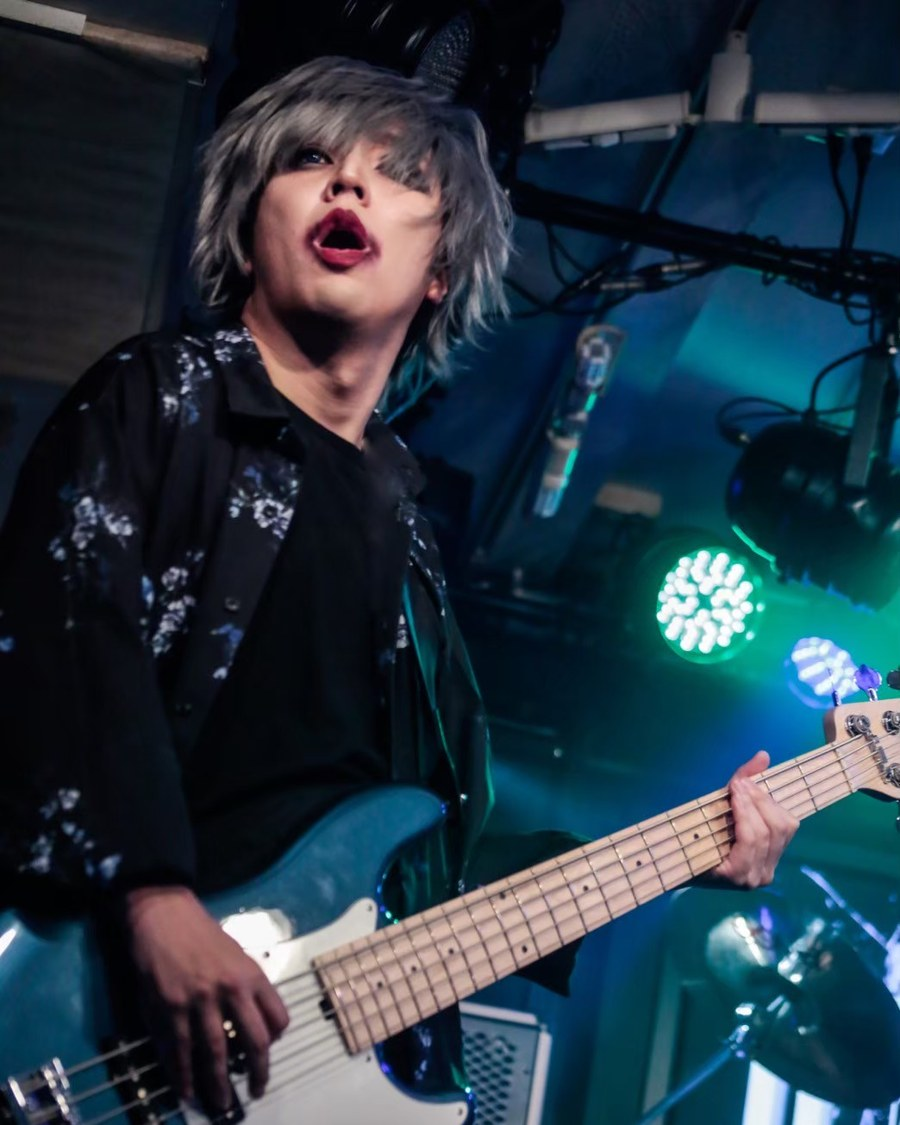
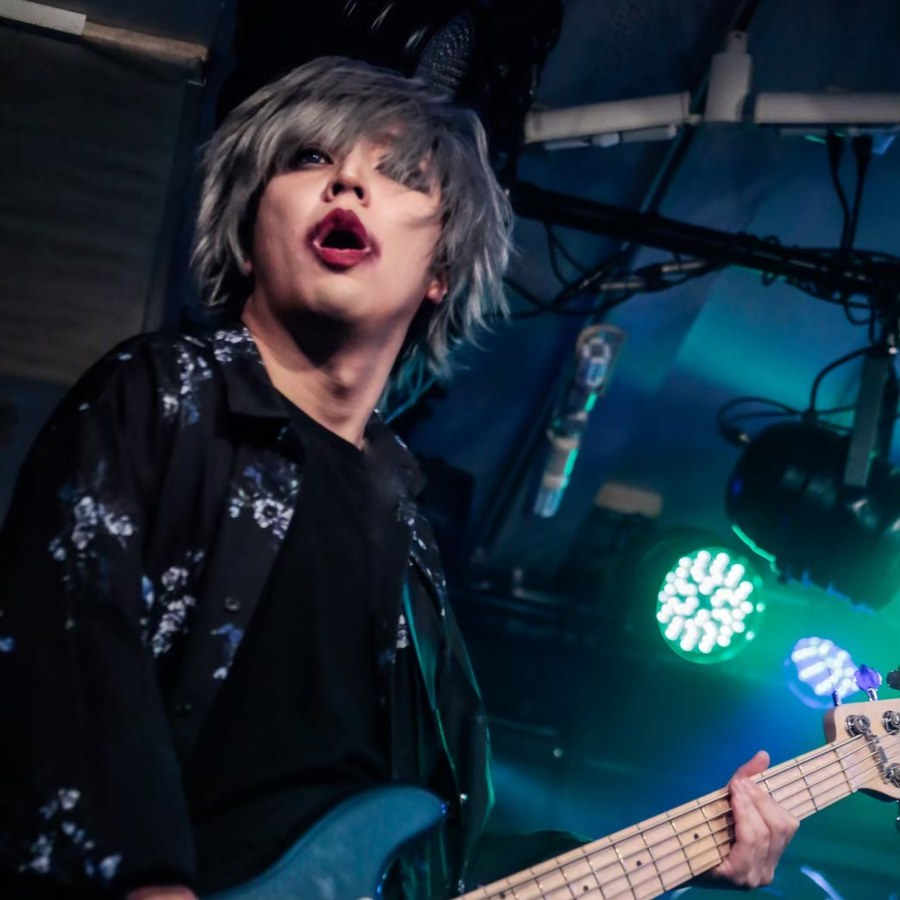
Switch member portraits to circular crop, add Bar SHIELD 10th anniversary live
Replace the pentagon arch-clip frame with a plain circular crop per
feedback, and add the 2026.09.27 Kobe Club Gessekai show including
O'MERGE's own 30-minute set time within the longer event.

diff --git a/app/src/components/bio/bio-section.tsx b/app/src/components/bio/bio-section.tsx
@@ -2,11 +2,9 @@ import { Reveal } from "@/components/reveal/reveal";
 import { SocialIcon } from "@/components/icons/social-icon";
 import { band, members } from "@/data/site-data";
 
-const ARCH_CLIP = "polygon(0% 100%, 0% 32%, 50% 0%, 100% 32%, 100% 100%)";
-
 /** Off-grid editorial band statement + an asymmetric 2x2 member grid, each
- * portrait cropped into an angular gothic-arch frame (design-brief.md
- * "layered image crop frames"). The eyebrow here is the site's 2nd of 2. */
+ * portrait cropped into a circular frame. The eyebrow here is the site's
+ * 2nd of 2. */
 export function BioSection() {
   return (
     <section
@@ -46,10 +44,7 @@ export function BioSection() {
               data-reveal=""
               key={member.id}
             >
-              <div
-                className="aspect-[4/5] w-full max-w-[280px] overflow-hidden bg-om-panel"
-                style={{ clipPath: ARCH_CLIP }}
-              >
+              <div className="aspect-square w-full max-w-[240px] overflow-hidden rounded-full border border-om-line/40 bg-om-panel">
                 <img
                   alt=""
                   className="h-full w-full object-cover"

diff --git a/app/src/components/upcoming-lives/upcoming-lives-section.tsx b/app/src/components/upcoming-lives/upcoming-lives-section.tsx
@@ -46,6 +46,9 @@ export function UpcomingLivesSection() {
                   <p className="mt-2 text-sm text-om-muted">
                     {live.venue} &nbsp;|&nbsp; 開場 {live.openTime} / 開演 {live.startTime}
                   </p>
+                  {live.bandTime ? (
+                    <p className="mt-1 text-sm text-om-accent-bright">{live.bandTime}</p>
+                  ) : null}
                   <p className="mt-1 flex items-center gap-1.5 font-om-en text-xs tracking-[0.08em] text-om-line">
                     <img alt="" aria-hidden="true" className="h-3.5 w-3.5 opacity-70" src="/assets/icons/key.png" />
                     前売 {live.ticketAdvance} / 当日 {live.ticketDoor}

diff --git a/app/src/data/site-data.ts b/app/src/data/site-data.ts
@@ -163,9 +163,22 @@ export interface UpcomingLive {
   ticketAdvance: string;
   ticketDoor: string;
   detailHref: string;
+  bandTime?: string;
 }
 
 export const upcomingLives: UpcomingLive[] = [
+  {
+    id: "bar-shield-10th",
+    title: "Bar SHIELD 10周年記念LIVE",
+    date: "2026.09.27",
+    venue: "神戸クラブ月世界",
+    openTime: "12:00",
+    startTime: "12:30",
+    ticketAdvance: "¥3,500+1D",
+    ticketDoor: "¥3,500+1D",
+    detailHref: "https://x.com/club_gessekai",
+    bandTime: "O'MERGE出演 17:30〜(30分)",
+  },
   {
     id: "genyasai",
     title: "対バン企画『幻夜祭』",
